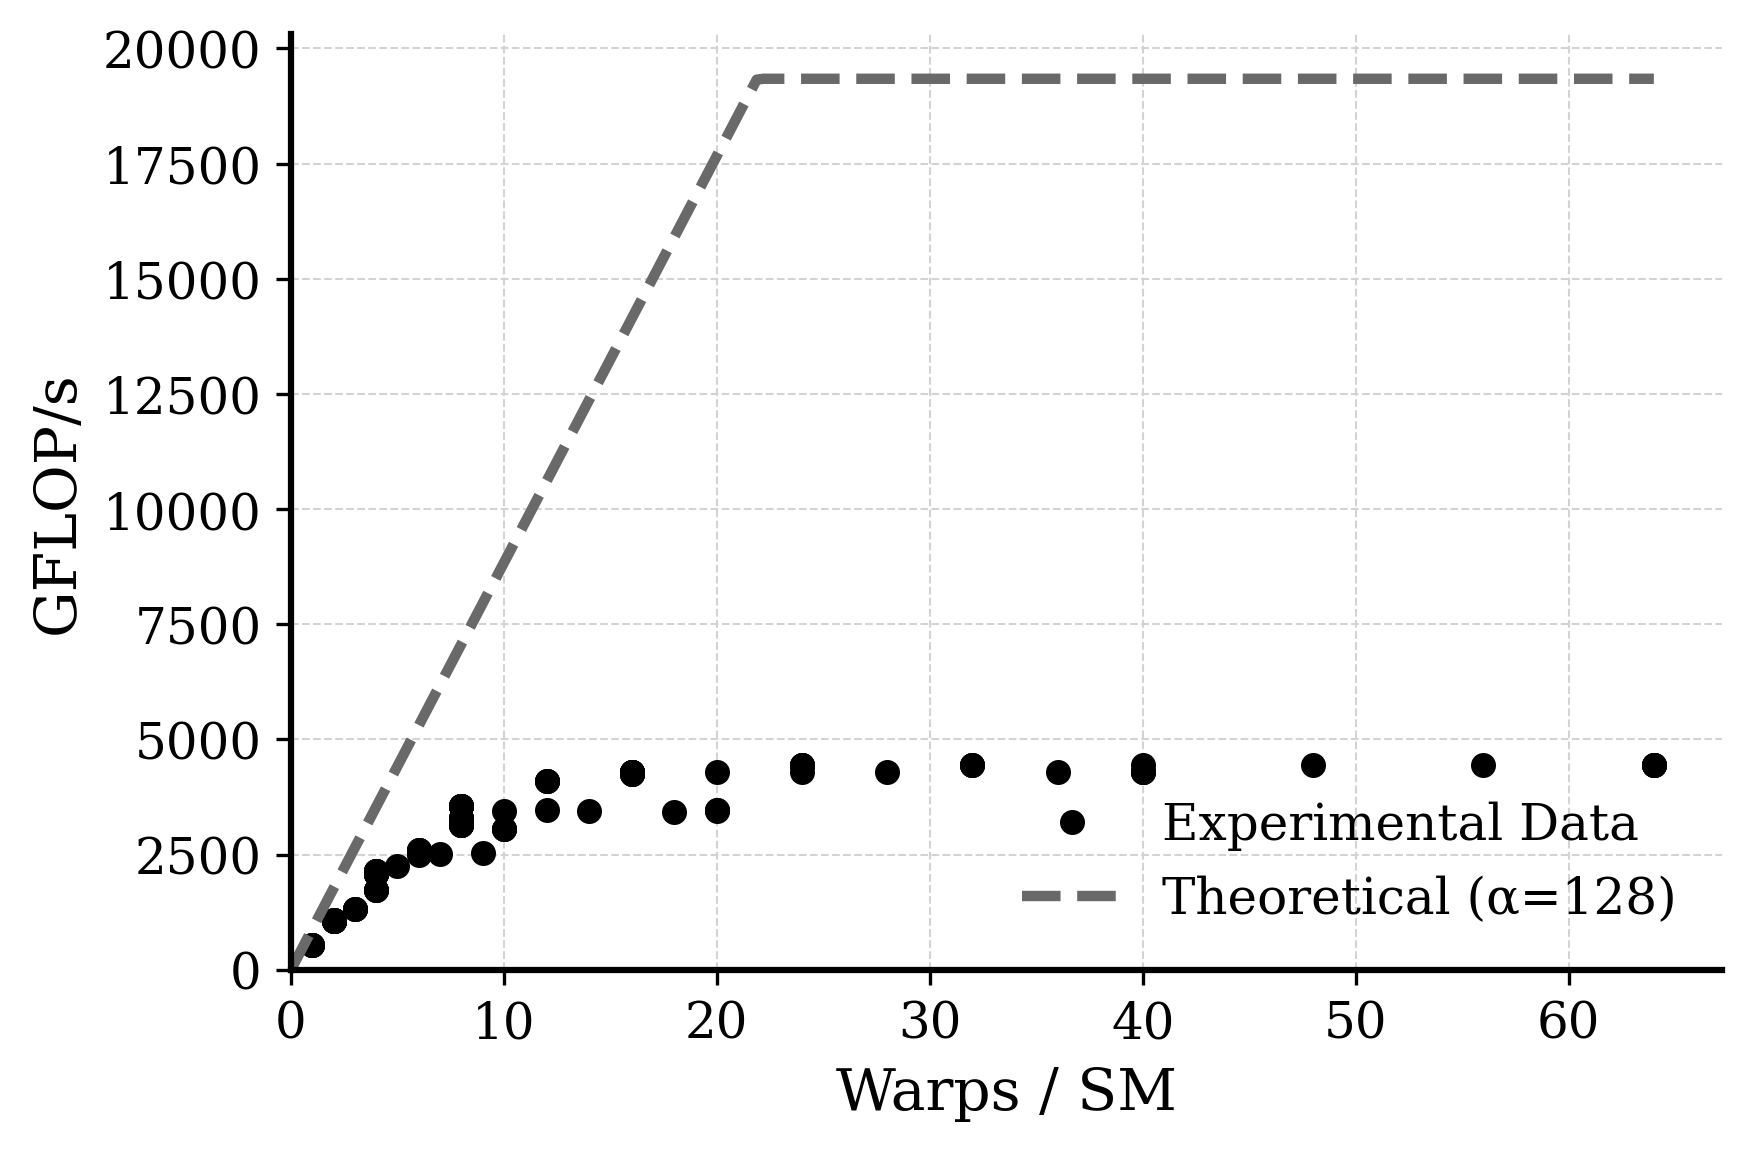
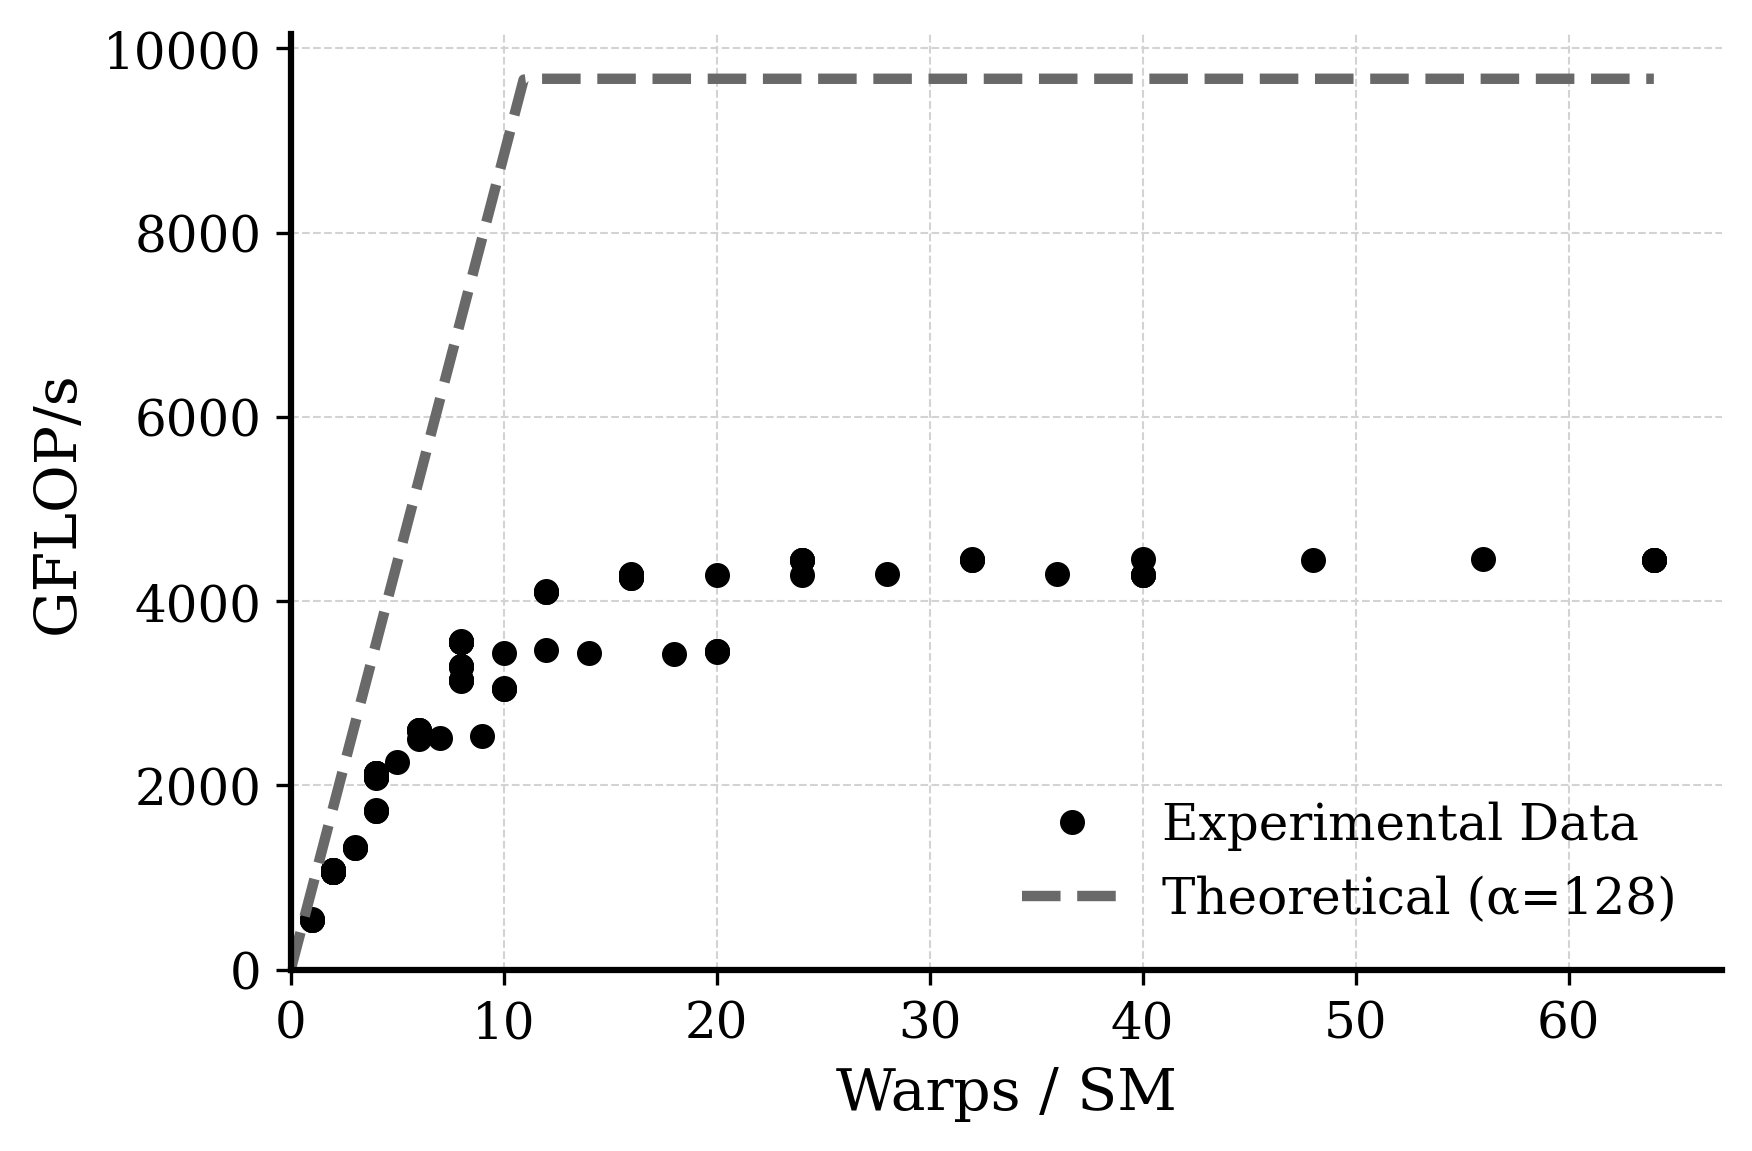
update

diff --git a/Results/A100/simplistic/plot.py b/Results/A100/simplistic/plot.py
@@ -4,7 +4,7 @@ import numpy as np
 import io
 
 # --- Configuration ---
-ARITH_INTENSITY = 512 # α = arithmetic intensity
+ARITH_INTENSITY = 64 # α = arithmetic intensity
 CSV_INPUT_FILE = f"results_a{ARITH_INTENSITY}.csv"
 PLOT_OUTPUT_FILE = f"simplistic_kernel_a{ARITH_INTENSITY}_a100.png"
 
@@ -31,7 +31,7 @@ def calculate_simplistic_kernel_model(warps_per_sm, arith_intensity):
     coeff = 4872.96 * arith_intensity
     term1 = warps_per_sm / (194 + arith_intensity * 4)
     term2 = 0.00575
-    term3 = 4 / (arith_intensity + 1)
+    term3 = 2 / (arith_intensity + 1)
     
     # Using np.full_like to ensure 'term2' and 'term3' are arrays of the same shape as 'warps_per_sm'
     bottleneck = np.minimum.reduce([

diff --git a/Results/A100/simplistic_with_streaming_memory/plot.py b/Results/A100/simplistic_with_streaming_memory/plot.py
@@ -4,7 +4,7 @@ import numpy as np
 import io
 
 # --- Configuration ---
-ARITH_INTENSITY = 512  # α = arithmetic intensity
+ARITH_INTENSITY = 1  # α = arithmetic intensity
 CSV_INPUT_FILE = f"results_a{ARITH_INTENSITY}.csv"
 PLOT_OUTPUT_FILE = f"simplistic_kernel_a{ARITH_INTENSITY}_a100.png"
 
@@ -31,7 +31,7 @@ def calculate_simplistic_kernel_model(warps_per_sm, arith_intensity):
     coeff = 4872.96 * arith_intensity
     term1 = warps_per_sm / (194 + arith_intensity * 4)
     term2 = 0.0421
-    term3 = 4 / (arith_intensity + 1)
+    term3 = 2 / (arith_intensity + 1)
     
     # Using np.full_like to ensure 'term2' and 'term3' are arrays of the same shape as 'warps_per_sm'
     bottleneck = np.minimum.reduce([
